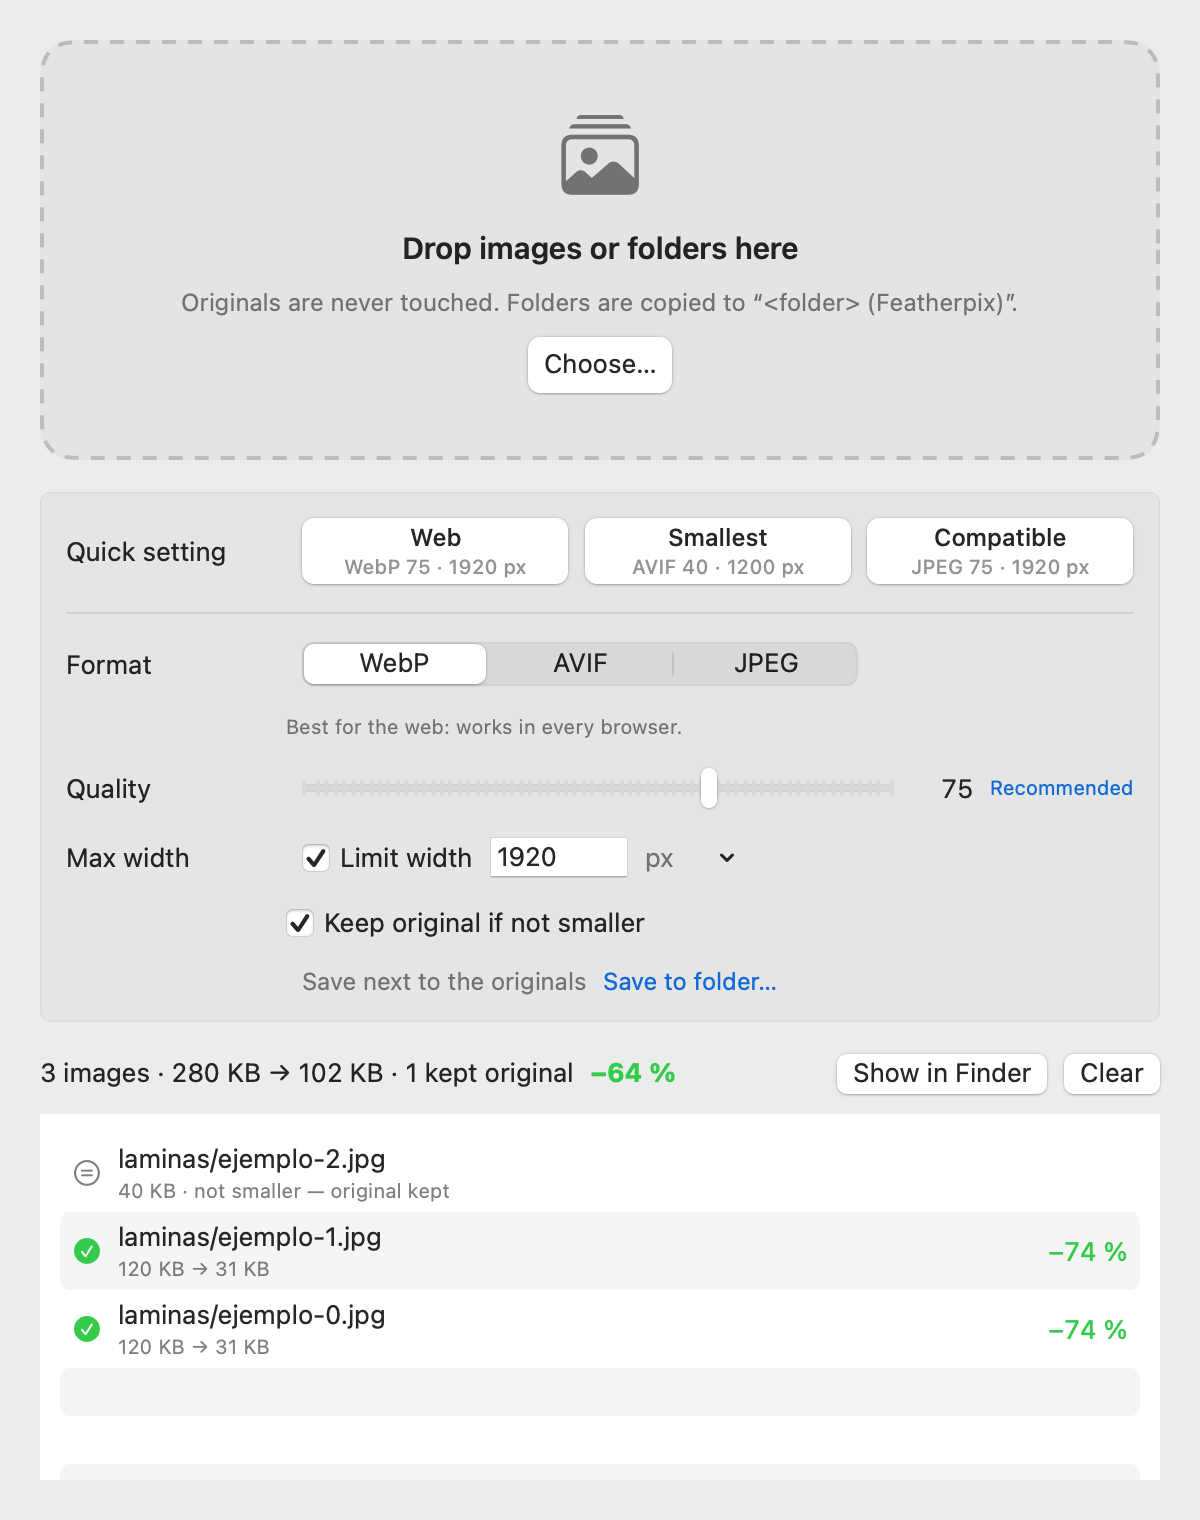
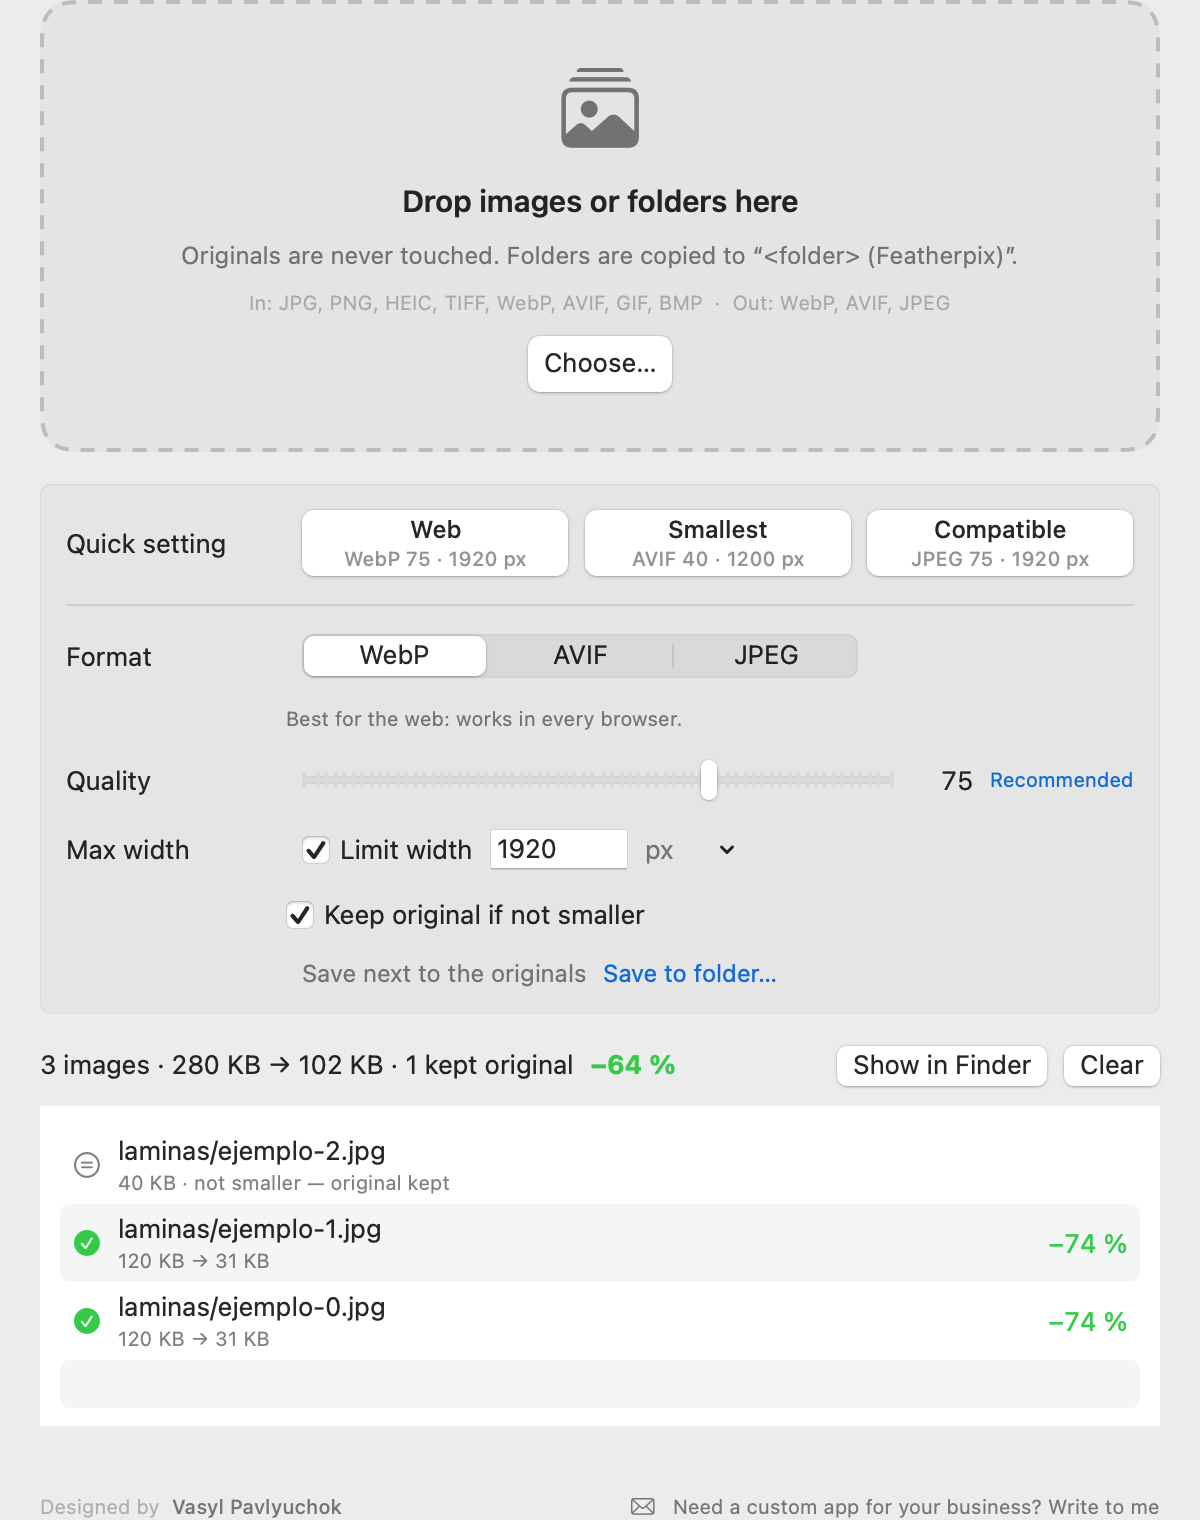
v1.1.0: credits, contact and visible input/output formats
- Footer "Designed by Vasyl Pavlyuchok" and a mail link with a fixed subject
  ("[Featherpix] App a medida") so real requests can be filtered from spam.
- About panel with the same credits; Help menu entry to write.
- Drop zone lists supported inputs and outputs.
- CLI: --formats / --about (also `featherpix-cli formats|about` as sole argument).

diff --git a/Sources/CLI/main.swift b/Sources/CLI/main.swift
@@ -13,6 +13,8 @@ Usage: featherpix-cli [options] <file-or-folder>...
   -o, --output DIR              write results here instead of next to the originals
   -j, --jobs N                  images in parallel (default: automatic)
       --keep-larger             keep the result even if it is not smaller
+      --formats                 list supported input and output formats
+      --about                   who made Featherpix and how to reach him
   -h, --help
 
 Files are written next to the originals; a folder is mirrored into "<folder> (Featherpix)".
@@ -23,6 +25,8 @@ var o = Options()
 var qualitySet = false
 var inputs: [URL] = []
 var args = Array(CommandLine.arguments.dropFirst())
+// `featherpix-cli formats` / `featherpix-cli about` only as the sole argument, so a file with that name still works.
+if args.count == 1, ["formats", "about"].contains(args[0]), !FileManager.default.fileExists(atPath: args[0]) { args[0] = "--" + args[0] }
 func die(_ m: String) -> Never { FileHandle.standardError.write(Data("error: \(m)\n".utf8)); exit(2) }
 func next(_ flag: String) -> String { guard !args.isEmpty else { die("\(flag) needs a value") }; return args.removeFirst() }
 
@@ -30,6 +34,15 @@ while !args.isEmpty {
     let a = args.removeFirst()
     switch a {
     case "-h", "--help": print(usage); exit(0)
+    case "--formats":
+        print("input:  " + FormatsInfo.imageInputs.joined(separator: ", "))
+        print("output: " + FormatsInfo.imageOutputs.joined(separator: ", "))
+        exit(0)
+    case "--about":
+        print("Featherpix \(Credits.version) — designed by \(Credits.author)")
+        print("Need a custom app for your business? \(Credits.email) (subject: \(Credits.mailSubject))")
+        print(Credits.repo)
+        exit(0)
     case "-f", "--format":
         guard let f = OutputFormat(rawValue: next(a).lowercased().replacingOccurrences(of: "jpg", with: "jpeg")) else { die("unknown format") }
         o.format = f

diff --git a/Sources/App/ContentView.swift b/Sources/App/ContentView.swift
@@ -15,8 +15,26 @@ struct ContentView: View {
             dropZone
             settings
             if model.total > 0 || !model.notes.isEmpty { results }
+            Spacer(minLength: 0)
+            footer
         }
         .padding(20)
+    }
+
+    // MARK: footer (signature + contact)
+    private var footer: some View {
+        HStack(spacing: 6) {
+            Text(L.designedBy).foregroundStyle(.tertiary)
+            Text(Credits.author).fontWeight(.medium).foregroundStyle(.secondary)
+            Spacer()
+            Link(destination: Credits.mailURL) {
+                Label(L.hireMe, systemImage: "envelope")
+            }
+            .foregroundStyle(.secondary)
+            .help(Credits.email)
+        }
+        .font(.caption)
+        .padding(.top, 2)
     }
 
     // MARK: drop zone
@@ -33,13 +51,14 @@ struct ContentView: View {
                     .foregroundStyle(targeted ? Color.accentColor : .secondary)
                 Text(L.dropTitle).font(.title3.weight(.semibold))
                 Text(L.dropHint).font(.callout).foregroundStyle(.secondary).multilineTextAlignment(.center)
+                Text(L.formatsLine).font(.caption).foregroundStyle(.tertiary).multilineTextAlignment(.center)
                 Button(L.choose) { model.chooseInputs() }
                     .controlSize(.large)
                     .disabled(model.running)
             }
             .padding(24)
         }
-        .frame(height: 210)
+        .frame(height: 226)
         .onDrop(of: [UTType.fileURL], isTargeted: $targeted) { providers in
             guard !model.running else { return false }
             var urls: [URL] = []

diff --git a/Sources/Core/Credits.swift b/Sources/Core/Credits.swift
@@ -1,0 +1,34 @@
+import Foundation
+
+/// Who made Featherpix and how to reach him. Shared by the app and the CLI.
+public enum Credits {
+    public static let author = "Vasyl Pavlyuchok"
+    public static let email = "vasylpavlyuchok@gmail.com"
+    /// A fixed subject lets real requests be told apart from spam with one mail filter.
+    public static let mailSubject = "[Featherpix] App a medida"
+    public static let repo = "https://github.com/vasyl-pavlyuchok/featherpix"
+
+    public static var mailURL: URL {
+        var c = URLComponents()
+        c.scheme = "mailto"
+        c.path = email
+        c.queryItems = [URLQueryItem(name: "subject", value: mailSubject)]
+        return c.url!
+    }
+
+    public static var version: String {
+        if let v = Bundle.main.object(forInfoDictionaryKey: "CFBundleShortVersionString") as? String { return v }
+        // The CLI lives in Featherpix.app/Contents/Resources/bin: read the app's Info.plist.
+        let exe = URL(fileURLWithPath: CommandLine.arguments[0]).resolvingSymlinksInPath()
+        let plist = exe.deletingLastPathComponent().deletingLastPathComponent().deletingLastPathComponent()
+            .appendingPathComponent("Info.plist")
+        if let d = NSDictionary(contentsOf: plist), let v = d["CFBundleShortVersionString"] as? String { return v }
+        return "dev"
+    }
+}
+
+/// Human-readable input/output formats, the single source for UI and CLI.
+public enum FormatsInfo {
+    public static let imageInputs = ["JPG", "PNG", "HEIC", "TIFF", "WebP", "AVIF", "GIF", "BMP"]
+    public static var imageOutputs: [String] { OutputFormat.allCases.map(\.label) }
+}

diff --git a/Sources/App/L10n.swift b/Sources/App/L10n.swift
@@ -8,6 +8,17 @@ enum L {
     static var dropTitle: String { t("Drop images or folders here", "Suelta aquí imágenes o carpetas") }
     static var dropHint: String { t("Originals are never touched. Folders are copied to “<folder> (Featherpix)”.",
                                     "Los originales no se tocan. Las carpetas se copian en «<carpeta> (Featherpix)».") }
+    static var formatsLine: String {
+        t("In: ", "Entrada: ") + FormatsInfo.imageInputs.joined(separator: ", ")
+            + t("  ·  Out: ", "  ·  Salida: ") + FormatsInfo.imageOutputs.joined(separator: ", ")
+    }
+    static var designedBy: String { t("Designed by", "Diseñado por") }
+    static var hireMe: String { t("Need a custom app for your business? Write to me", "¿Necesitas una app a medida para tu empresa? Escríbeme") }
+    static var hireMeShort: String { t("Custom apps", "Apps a medida") }
+    static var aboutCredits: String {
+        t("Designed by \(Credits.author).\n\nNeed a custom app for your business? Write to \(Credits.email) with the subject “\(Credits.mailSubject)” and tell me what you need.\n\nFree and open source (MIT).",
+          "Diseñado por \(Credits.author).\n\n¿Necesitas una app a medida para tu empresa? Escríbeme a \(Credits.email) con el asunto «\(Credits.mailSubject)» y cuéntame qué necesitas.\n\nGratis y de código abierto (MIT).")
+    }
     static var choose: String { t("Choose…", "Elegir…") }
     static var format: String { t("Format", "Formato") }
     static var quality: String { t("Quality", "Calidad") }

diff --git a/Sources/App/FeatherpixApp.swift b/Sources/App/FeatherpixApp.swift
@@ -13,6 +13,24 @@ struct FeatherpixApp: App {
                 .frame(minWidth: 560, minHeight: 620)
         }
         .windowResizability(.contentMinSize)
+        .commands {
+            CommandGroup(replacing: .appInfo) {
+                Button(L.t("About Featherpix", "Acerca de Featherpix")) { showAbout() }
+            }
+            CommandGroup(after: .help) {
+                Button(L.hireMe) { NSWorkspace.shared.open(Credits.mailURL) }
+            }
+        }
+    }
+
+    @MainActor private func showAbout() {
+        let credits = NSMutableAttributedString(string: L.aboutCredits, attributes: [
+            .font: NSFont.systemFont(ofSize: 11), .foregroundColor: NSColor.labelColor,
+        ])
+        let r = (credits.string as NSString).range(of: Credits.email)
+        if r.location != NSNotFound { credits.addAttribute(.link, value: Credits.mailURL, range: r) }
+        NSApp.orderFrontStandardAboutPanel(options: [.credits: credits])
+        NSApp.activate(ignoringOtherApps: true)
     }
 }
 

diff --git a/docs/release-notes.md b/docs/release-notes.md
@@ -3,6 +3,11 @@
 🇬🇧 Make your images much lighter without anyone noticing: WebP, AVIF or JPEG, single images or whole folders, drag and drop. Free, open source, offline.
 🇪🇸 Aligera tus imágenes sin que se note: WebP, AVIF o JPEG, imágenes sueltas o carpetas enteras, con arrastrar y soltar. Gratis, de código abierto y sin conexión.
 
+### New in 1.1 · Novedades de la 1.1
+
+🇬🇧 Supported formats shown in the window (in: JPG, PNG, HEIC, TIFF, WebP, AVIF, GIF, BMP · out: WebP, AVIF, JPEG), credits and contact in the window and in About, and `featherpix-cli --formats` / `--about`.
+🇪🇸 Los formatos admitidos se ven en la ventana (entrada: JPG, PNG, HEIC, TIFF, WebP, AVIF, GIF, BMP · salida: WebP, AVIF, JPEG), firma y contacto en la ventana y en «Acerca de», y `featherpix-cli --formats` / `--about`.
+
 ### Download · Descarga
 
 | | |
